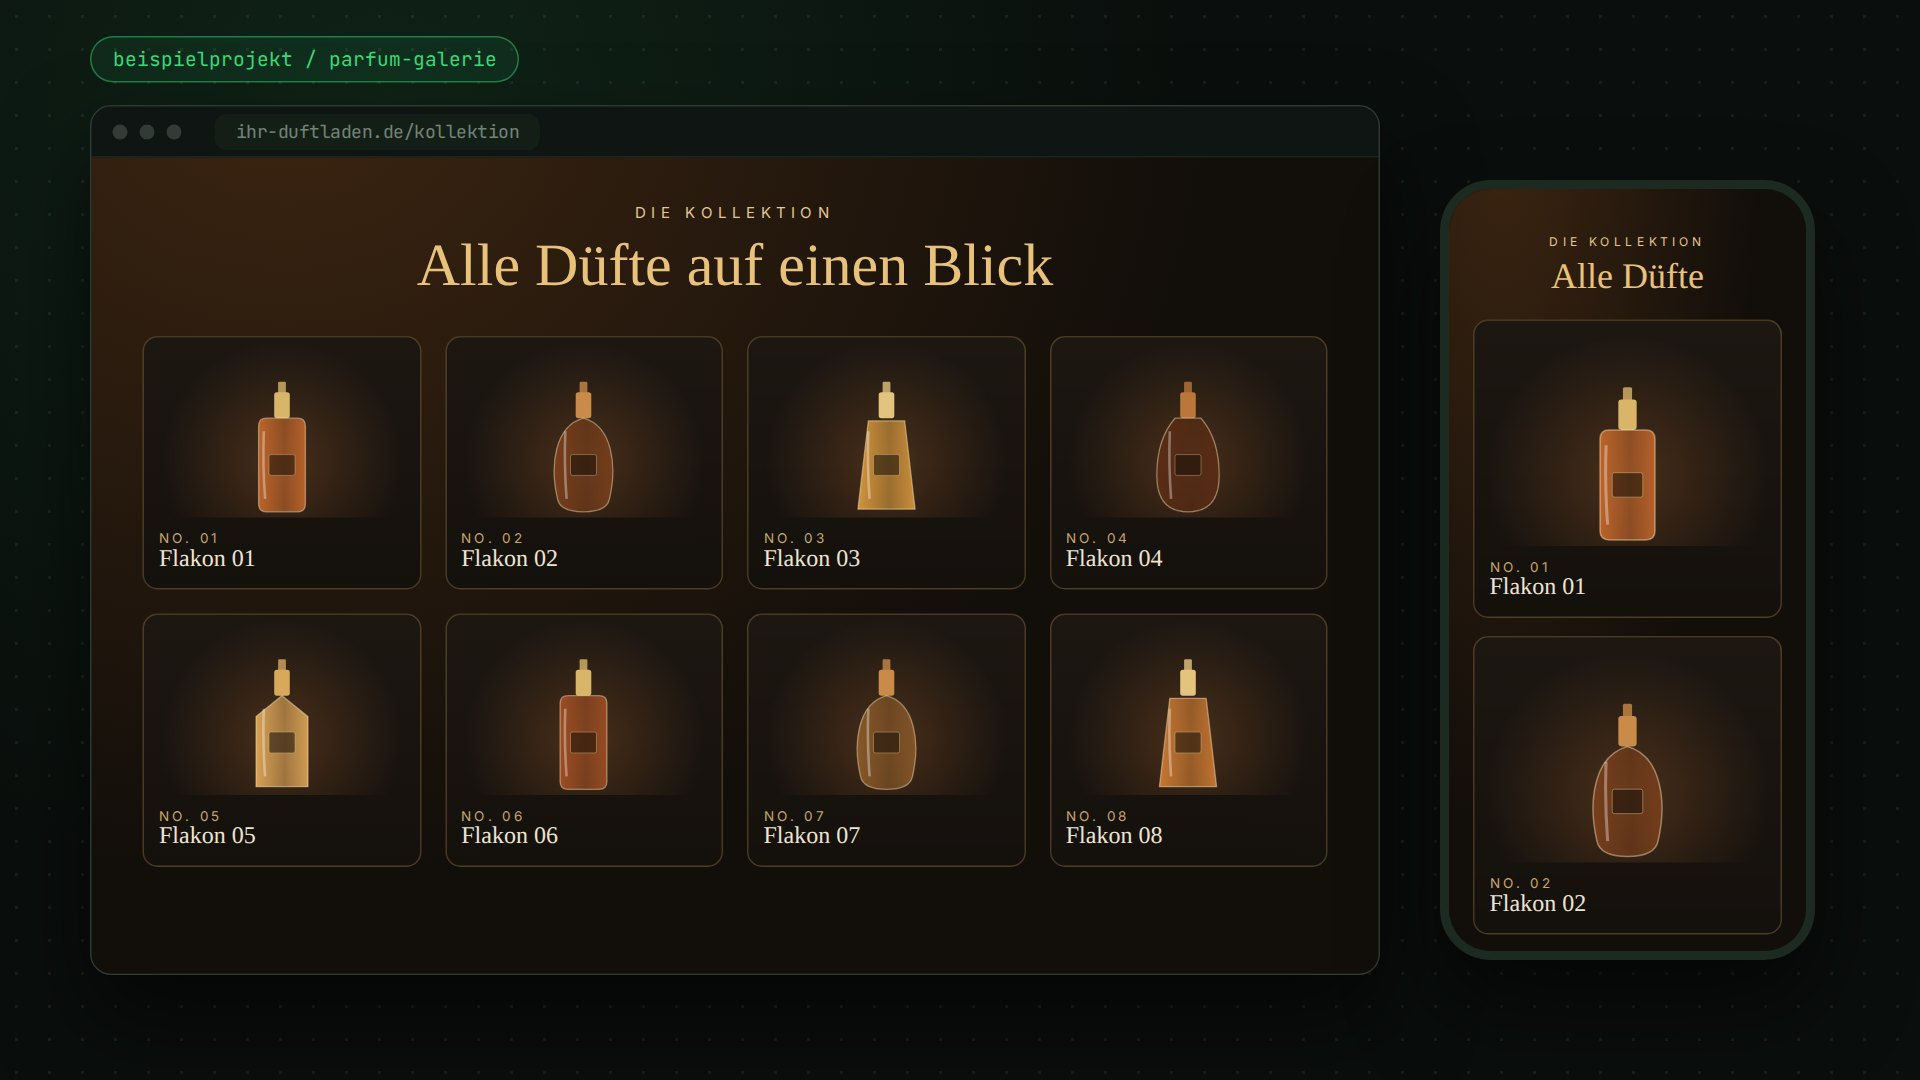
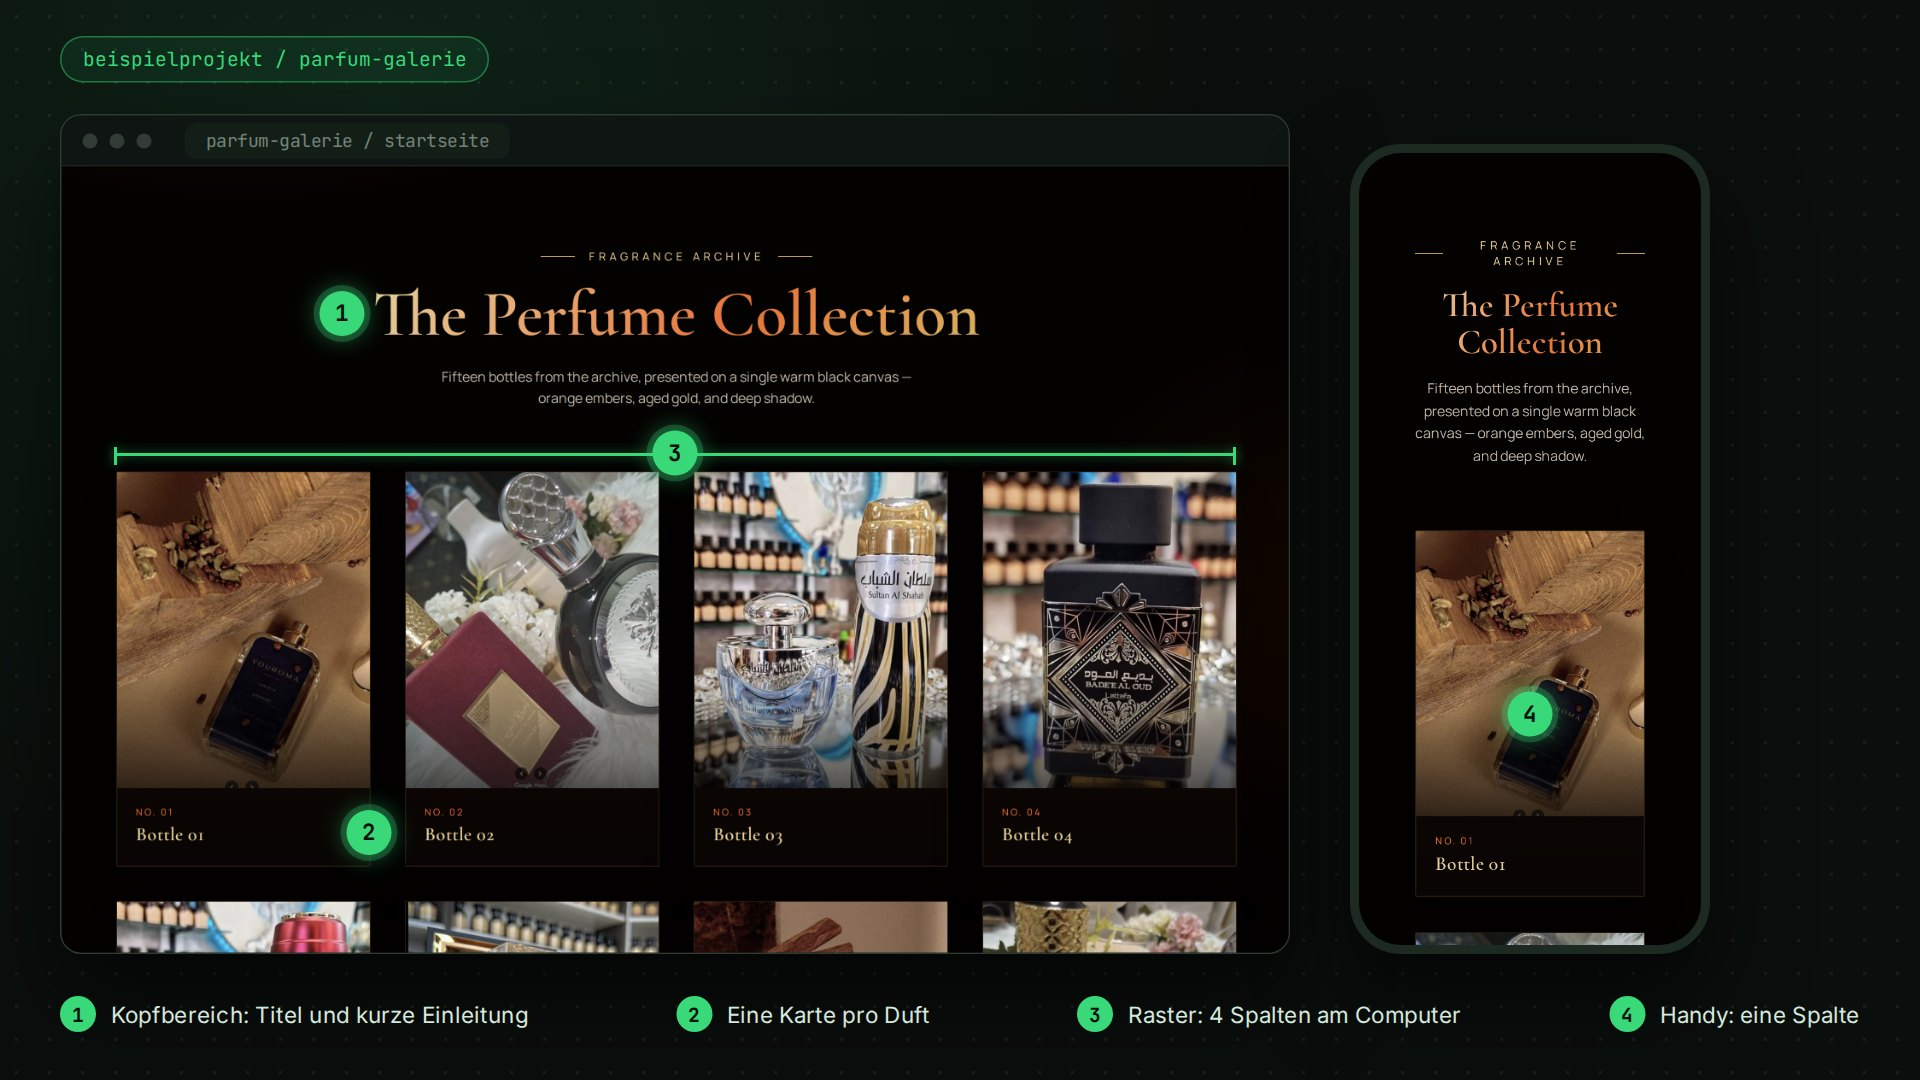
Blog post: real screenshots of the perfume demo with annotations

diff --git a/blog-parfum-galerie.html b/blog-parfum-galerie.html
@@ -10,14 +10,14 @@
 <meta property="og:title" content="Fallstudie Parfüm-Kollektion (Beispielprojekt): Armsin Digital Media">
 <meta property="og:description" content="Beispielprojekt: eine übersichtliche Produktgalerie für einen Parfümladen. Ausgangslage, Lösung und was das Design für einen echten Laden leistet.">
 <meta property="og:url" content="https://armsin.de/blog-parfum-galerie.html">
-<meta property="og:image" content="https://armsin.de/assets/blog/parfum-galerie.jpg">
+<meta property="og:image" content="https://armsin.de/assets/blog/parfum-galerie.jpg?v=2">
 <script type="application/ld+json">
 {
   "@context": "https://schema.org",
   "@type": "BlogPosting",
   "headline": "Parfüm-Kollektion: alle Düfte auf einen Blick",
   "datePublished": "2026-10-09",
-  "image": "https://armsin.de/assets/blog/parfum-galerie.jpg",
+  "image": "https://armsin.de/assets/blog/parfum-galerie.jpg?v=2",
   "author": { "@type": "Person", "name": "Yass Almardoud" },
   "publisher": { "@type": "Organization", "name": "Armsin Digital Media", "url": "https://armsin.de/" },
   "mainEntityOfPage": "https://armsin.de/blog-parfum-galerie.html"
@@ -74,8 +74,8 @@
     <div class="container">
 
       <figure class="blog-figure blog-figure-wide" data-reveal>
-        <img src="assets/blog/parfum-galerie.jpg" alt="Illustration: die Produktgalerie mit acht Parfümflaschen auf einem Laptop, daneben dieselbe Galerie einspaltig auf einem Handy" width="1920" height="1080">
-        <figcaption data-i18n="blog.post1.fig1.cap">Die Galerie am Computer und auf dem Handy (Illustration, Flaschen gezeichnet).</figcaption>
+        <img src="assets/blog/parfum-galerie.jpg?v=2" alt="Screenshot der Parfüm-Galerie am Computer mit vier Spalten und auf dem Handy mit einer Spalte, mit nummerierten Erklärungen" width="1920" height="1080">
+        <figcaption data-i18n="blog.post1.fig1.cap">Echte Ansicht der Demo: am Computer vier Spalten, auf dem Handy eine.</figcaption>
       </figure>
 
       <div class="blog-body">
@@ -95,8 +95,8 @@
         </section>
 
         <figure class="blog-figure" data-reveal>
-          <img src="assets/blog/parfum-produktkarte.jpg" alt="Illustration: links eine Produktkarte aus der Demo mit Foto, Nummer und Name, rechts eine Detailseite auf dem Handy mit Duftnoten und Knöpfen zum Anrufen und für die Route" width="1920" height="1080" loading="lazy">
-          <figcaption data-i18n="blog.post1.fig2.cap">Links die Karte aus der Demo, rechts der Ausbau für einen echten Laden.</figcaption>
+          <img src="assets/blog/parfum-produktkarte.jpg?v=2" alt="Screenshot einer Produktkarte mit Foto, Nummer und Name, daneben die Galerie auf dem Handy mit Karten untereinander" width="1920" height="1080" loading="lazy">
+          <figcaption data-i18n="blog.post1.fig2.cap">Eine Karte im Detail und dieselbe Galerie auf dem Handy.</figcaption>
         </figure>
 
         <section class="blog-section" data-reveal>

diff --git a/assets/js/i18n.js b/assets/js/i18n.js
@@ -196,7 +196,7 @@ var I18N_EN = {
   'blog.post1.meta.title': 'Case study perfume collection (sample project): Armsin Digital Media',
   'blog.post1.meta.description': 'Sample project: a clear product gallery for a perfume shop. Starting point, solution and what the design does for a real shop.',
   'blog.post1.lead': 'A product gallery for a small perfume shop. I built it as my own demo to show how a shop can present its products online, clearly and attractively.',
-  'blog.post1.fig1.cap': 'The gallery on a computer and on a phone (illustration, bottles drawn).',
+  'blog.post1.fig1.cap': 'The real demo: four columns on a computer, one on a phone.',
   'blog.post1.s1.step': 'Starting point',
   'blog.post1.s1.h2': 'The fragrances are on the shelf, but nobody sees them online.',
   'blog.post1.s1.p1': 'Many small perfume shops only show their range in the shop or scattered across Instagram. Anyone searching for a fragrance on their phone in the evening finds no overview: which bottles are there, what do they look like, where can I ask?',
@@ -205,7 +205,7 @@ var I18N_EN = {
   'blog.post1.s2.h2': 'A calm gallery where every bottle has its place.',
   'blog.post1.s2.p1': 'Each fragrance gets its own card with photo, number and name. The cards sit in a grid that adapts to the screen width: several side by side on a computer, stacked on a phone.',
   'blog.post1.s2.p2': 'The colours, warm black, gold and orange, match the bottles themselves. The page feels like the shop window rather than a generic online store.',
-  'blog.post1.fig2.cap': 'Left: the card from the demo. Right: how it grows for a real shop.',
+  'blog.post1.fig2.cap': 'One card in detail, and the same gallery on a phone.',
   'blog.post1.s3.step': 'Result',
   'blog.post1.s3.h2': 'What this design does for a real shop.',
   'blog.post1.note.strong': 'Sample project, not a client job.',

diff --git a/blog.html b/blog.html
@@ -60,7 +60,7 @@
 
         <a href="blog-parfum-galerie.html" class="service-card blog-card" data-reveal>
           <span class="blog-card-thumb">
-            <img src="assets/blog/parfum-galerie.jpg" alt="Illustration: Produktgalerie eines Parfümladens auf Laptop und Handy" width="1920" height="1080" loading="lazy">
+            <img src="assets/blog/parfum-galerie.jpg?v=2" alt="Screenshot der Parfüm-Galerie auf Laptop und Handy" width="1920" height="1080" loading="lazy">
           </span>
           <span class="blog-meta">
             <span class="blog-tag" data-i18n="blog.tag.case">Fallstudie</span>
